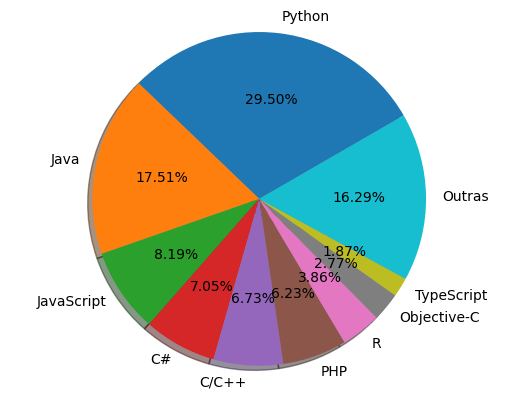
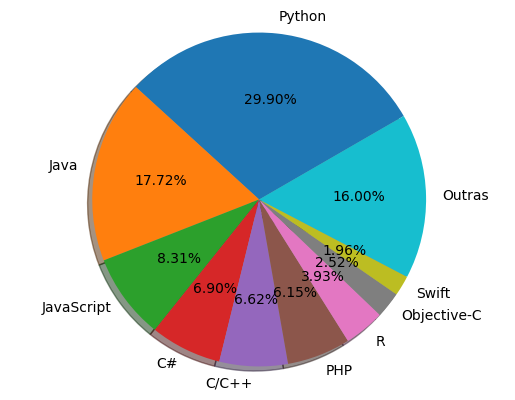
Build site at 2021-05-04 17:13:40 UTC

diff --git a/docs/popularidade/index.html b/docs/popularidade/index.html
@@ -1414,79 +1414,79 @@
     <tr>
       <td style="text-align: center">1</td>
       <td style="text-align: left">Python</td>
-      <td style="text-align: center">29.5</td>
-      <td style="text-align: center">-1.0</td>
+      <td style="text-align: center">29.9</td>
+      <td style="text-align: center">-1.2</td>
     </tr>
     <tr>
       <td style="text-align: center">2</td>
       <td style="text-align: left">Java</td>
-      <td style="text-align: center">17.51</td>
-      <td style="text-align: center">-0.6</td>
+      <td style="text-align: center">17.72</td>
+      <td style="text-align: center">-0.0</td>
     </tr>
     <tr>
       <td style="text-align: center">3</td>
       <td style="text-align: left">JavaScript</td>
-      <td style="text-align: center">8.19</td>
-      <td style="text-align: center">+0.2</td>
+      <td style="text-align: center">8.31</td>
+      <td style="text-align: center">+0.4</td>
     </tr>
     <tr>
       <td style="text-align: center">4</td>
       <td style="text-align: left">C#</td>
-      <td style="text-align: center">7.05</td>
-      <td style="text-align: center">-0.2</td>
+      <td style="text-align: center">6.9</td>
+      <td style="text-align: center">-0.1</td>
     </tr>
     <tr>
       <td style="text-align: center">5</td>
       <td style="text-align: left">C/C++</td>
-      <td style="text-align: center">6.73</td>
-      <td style="text-align: center">+1.0</td>
+      <td style="text-align: center">6.62</td>
+      <td style="text-align: center">+0.9</td>
     </tr>
     <tr>
       <td style="text-align: center">6</td>
       <td style="text-align: left">PHP</td>
-      <td style="text-align: center">6.23</td>
-      <td style="text-align: center">+0.0</td>
+      <td style="text-align: center">6.15</td>
+      <td style="text-align: center">+0.1</td>
     </tr>
     <tr>
       <td style="text-align: center">7</td>
       <td style="text-align: left">R</td>
-      <td style="text-align: center">3.86</td>
+      <td style="text-align: center">3.93</td>
       <td style="text-align: center">+0.0</td>
     </tr>
     <tr>
       <td style="text-align: center">8</td>
       <td style="text-align: left">Objective-C</td>
-      <td style="text-align: center">2.77</td>
-      <td style="text-align: center">+0.3</td>
+      <td style="text-align: center">2.52</td>
+      <td style="text-align: center">+0.1</td>
     </tr>
     <tr>
       <td style="text-align: center">9</td>
-      <td style="text-align: left">TypeScript</td>
-      <td style="text-align: center">1.87</td>
-      <td style="text-align: center">-0.0</td>
+      <td style="text-align: left">Swift</td>
+      <td style="text-align: center">1.96</td>
+      <td style="text-align: center">-0.2</td>
     </tr>
     <tr>
       <td style="text-align: center">10</td>
-      <td style="text-align: left">Swift</td>
-      <td style="text-align: center">1.85</td>
-      <td style="text-align: center">-0.3</td>
+      <td style="text-align: left">TypeScript</td>
+      <td style="text-align: center">1.89</td>
+      <td style="text-align: center">+0.0</td>
     </tr>
     <tr>
       <td style="text-align: center">11</td>
-      <td style="text-align: left">Kotlin</td>
-      <td style="text-align: center">1.78</td>
-      <td style="text-align: center">+0.3</td>
+      <td style="text-align: left">Matlab</td>
+      <td style="text-align: center">1.71</td>
+      <td style="text-align: center">-0.2</td>
     </tr>
     <tr>
       <td style="text-align: center">12</td>
-      <td style="text-align: left">Matlab</td>
-      <td style="text-align: center">1.77</td>
-      <td style="text-align: center">-0.1</td>
+      <td style="text-align: left">Kotlin</td>
+      <td style="text-align: center">1.62</td>
+      <td style="text-align: center">+0.1</td>
     </tr>
     <tr>
       <td style="text-align: center">13</td>
       <td style="text-align: left">Go</td>
-      <td style="text-align: center">1.37</td>
+      <td style="text-align: center">1.42</td>
       <td style="text-align: center">+0.1</td>
     </tr>
     <tr>
@@ -1497,92 +1497,92 @@
     </tr>
     <tr>
       <td style="text-align: center">15</td>
-      <td style="text-align: left">Ruby</td>
-      <td style="text-align: center">1.21</td>
-      <td style="text-align: center">-0.1</td>
+      <td style="text-align: left">Rust</td>
+      <td style="text-align: center">1.13</td>
+      <td style="text-align: center">+0.4</td>
     </tr>
     <tr>
       <td style="text-align: center">16</td>
-      <td style="text-align: left">Rust</td>
-      <td style="text-align: center">1.1</td>
-      <td style="text-align: center">+0.4</td>
+      <td style="text-align: left">Ruby</td>
+      <td style="text-align: center">1.12</td>
+      <td style="text-align: center">-0.1</td>
     </tr>
     <tr>
       <td style="text-align: center">17</td>
       <td style="text-align: left">Ada</td>
-      <td style="text-align: center">0.8</td>
-      <td style="text-align: center">+0.5</td>
+      <td style="text-align: center">0.72</td>
+      <td style="text-align: center">+0.3</td>
     </tr>
     <tr>
       <td style="text-align: center">18</td>
-      <td style="text-align: left">Scala</td>
-      <td style="text-align: center">0.72</td>
-      <td style="text-align: center">-0.3</td>
+      <td style="text-align: left">Visual Basic</td>
+      <td style="text-align: center">0.7</td>
+      <td style="text-align: center">-0.2</td>
     </tr>
     <tr>
       <td style="text-align: center">19</td>
-      <td style="text-align: left">Visual Basic</td>
-      <td style="text-align: center">0.71</td>
-      <td style="text-align: center">-0.2</td>
+      <td style="text-align: left">Scala</td>
+      <td style="text-align: center">0.67</td>
+      <td style="text-align: center">-0.4</td>
     </tr>
     <tr>
       <td style="text-align: center">20</td>
       <td style="text-align: left">Abap</td>
-      <td style="text-align: center">0.58</td>
-      <td style="text-align: center">+0.0</td>
+      <td style="text-align: center">0.61</td>
+      <td style="text-align: center">+0.1</td>
     </tr>
     <tr>
       <td style="text-align: center">21</td>
-      <td style="text-align: left">Lua</td>
-      <td style="text-align: center">0.57</td>
-      <td style="text-align: center">+0.3</td>
-    </tr>
-    <tr>
-      <td style="text-align: center">22</td>
       <td style="text-align: left">Dart</td>
-      <td style="text-align: center">0.52</td>
+      <td style="text-align: center">0.55</td>
       <td style="text-align: center">+0.0</td>
     </tr>
     <tr>
+      <td style="text-align: center">22</td>
+      <td style="text-align: left">Lua</td>
+      <td style="text-align: center">0.49</td>
+      <td style="text-align: center">+0.1</td>
+    </tr>
+    <tr>
       <td style="text-align: center">23</td>
-      <td style="text-align: left">Perl</td>
+      <td style="text-align: left">Julia</td>
+      <td style="text-align: center">0.42</td>
+      <td style="text-align: center">+0.1</td>
+    </tr>
+    <tr>
+      <td style="text-align: center">24</td>
+      <td style="text-align: left">Groovy</td>
       <td style="text-align: center">0.41</td>
       <td style="text-align: center">-0.0</td>
     </tr>
     <tr>
-      <td style="text-align: center">24</td>
-      <td style="text-align: left">Julia</td>
-      <td style="text-align: center">0.38</td>
-      <td style="text-align: center">+0.1</td>
-    </tr>
-    <tr>
       <td style="text-align: center">25</td>
-      <td style="text-align: left">Cobol</td>
-      <td style="text-align: center">0.35</td>
-      <td style="text-align: center">+0.0</td>
+      <td style="text-align: left">Perl</td>
+      <td style="text-align: center">0.4</td>
+      <td style="text-align: center">-0.0</td>
     </tr>
     <tr>
       <td style="text-align: center">26</td>
-      <td style="text-align: left">Groovy</td>
-      <td style="text-align: center">0.34</td>
+      <td style="text-align: left">Cobol</td>
+      <td style="text-align: center">0.36</td>
       <td style="text-align: center">-0.1</td>
     </tr>
     <tr>
       <td style="text-align: center">27</td>
-      <td style="text-align: left">Haskell</td>
-      <td style="text-align: center">0.25</td>
-      <td style="text-align: center">-0.1</td>
+      <td style="text-align: left">Delphi/Pascal</td>
+      <td style="text-align: center">0.24</td>
+      <td style="text-align: center">-0.0</td>
     </tr>
     <tr>
       <td style="text-align: center">28</td>
-      <td style="text-align: left">Delphi</td>
-      <td style="text-align: center">0.25</td>
-      <td style="text-align: center">-0.0</td>
+      <td style="text-align: left">Haskell</td>
+      <td style="text-align: center">0.21</td>
+      <td style="text-align: center">-0.1</td>
     </tr>
   </tbody>
 </table>
 
-<p class="small"><strong><em>Mundialmente em abril de 2021, comparado a um ano antes</em></strong></p>
+<p class="small"><strong><em>Mundialmente em maio de 2021, comparado a um ano antes</em></strong></p>
 
 
   
@@ -1590,7 +1590,7 @@
 
 <hr>
 <p class="small">
-  <i> Página atualizada em 30/04/21</i>
+  <i> Página atualizada em 04/05/21</i>
 </p>
 
 

diff --git a/docs/index.html b/docs/index.html
@@ -1435,7 +1435,7 @@
 
 </div>
 
-<p class="small"><strong><em>Última atualização: 04/05/2021 14:12:16</em></strong></p>
+<p class="small"><strong><em>Última atualização: 04/05/2021 14:13:33</em></strong></p>
 
 
 

diff --git a/material/sobre/01-introdução.md b/material/sobre/01-introdução.md
@@ -4,7 +4,7 @@ parent: sobre
 nav_order: 0
 tags: [introdução, pypl, python, popularity]
 permalink: /popularidade/
-timestamp: '30/04/21'
+timestamp: '04/05/21'
 ---
 
 Python é a linguagem mais popular e a que mais cresce mundialmente
@@ -18,34 +18,34 @@ O **índice PYPL** (*PopularitY of Programming Language*) é obtido analisando a
 
 | Posição	| Linguagem |	Fatia (%)	| Tendência (%) |
 |:-------:|:--------- |:-----:|:---------:|
-| 1 | Python |          29.5  | -1.0  |
-| 2 | Java |          17.51  | -0.6  |
-| 3 | JavaScript |          8.19  | +0.2  |
-| 4 | C# |          7.05  | -0.2  |
-| 5 | C/C++ |          6.73  | +1.0  |
-| 6 | PHP |          6.23  | +0.0  |
-| 7 | R |          3.86  | +0.0  |
-| 8 | Objective-C |          2.77  | +0.3  |
-| 9 | TypeScript |          1.87  | -0.0  |
-| 10 | Swift |          1.85  | -0.3  |
-| 11 | Kotlin |          1.78  | +0.3  |
-| 12 | Matlab |          1.77  | -0.1  |
-| 13 | Go |          1.37  | +0.1  |
+| 1 | Python |          29.9  | -1.2  |
+| 2 | Java |          17.72  | -0.0  |
+| 3 | JavaScript |          8.31  | +0.4  |
+| 4 | C# |          6.9  | -0.1  |
+| 5 | C/C++ |          6.62  | +0.9  |
+| 6 | PHP |          6.15  | +0.1  |
+| 7 | R |          3.93  | +0.0  |
+| 8 | Objective-C |          2.52  | +0.1  |
+| 9 | Swift |          1.96  | -0.2  |
+| 10 | TypeScript |          1.89  | +0.0  |
+| 11 | Matlab |          1.71  | -0.2  |
+| 12 | Kotlin |          1.62  | +0.1  |
+| 13 | Go |          1.42  | +0.1  |
 | 14 | VBA |          1.33  | -0.0  |
-| 15 | Ruby |          1.21  | -0.1  |
-| 16 | Rust |          1.1  | +0.4  |
-| 17 | Ada |          0.8  | +0.5  |
-| 18 | Scala |          0.72  | -0.3  |
-| 19 | Visual Basic |          0.71  | -0.2  |
-| 20 | Abap |          0.58  | +0.0  |
-| 21 | Lua |          0.57  | +0.3  |
-| 22 | Dart |          0.52  | +0.0  |
-| 23 | Perl |          0.41  | -0.0  |
-| 24 | Julia |          0.38  | +0.1  |
-| 25 | Cobol |          0.35  | +0.0  |
-| 26 | Groovy |          0.34  | -0.1  |
-| 27 | Haskell |          0.25  | -0.1  |
-| 28 | Delphi |          0.25  | -0.0  |
+| 15 | Rust |          1.13  | +0.4  |
+| 16 | Ruby |          1.12  | -0.1  |
+| 17 | Ada |          0.72  | +0.3  |
+| 18 | Visual Basic |          0.7  | -0.2  |
+| 19 | Scala |          0.67  | -0.4  |
+| 20 | Abap |          0.61  | +0.1  |
+| 21 | Dart |          0.55  | +0.0  |
+| 22 | Lua |          0.49  | +0.1  |
+| 23 | Julia |          0.42  | +0.1  |
+| 24 | Groovy |          0.41  | -0.0  |
+| 25 | Perl |          0.4  | -0.0  |
+| 26 | Cobol |          0.36  | -0.1  |
+| 27 | Delphi/Pascal |          0.24  | -0.0  |
+| 28 | Haskell |          0.21  | -0.1  |
 
-***Mundialmente em abril de 2021, comparado a um ano antes***
+***Mundialmente em maio de 2021, comparado a um ano antes***
 {: .small}
